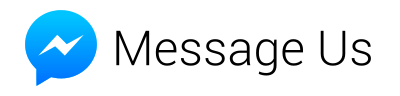
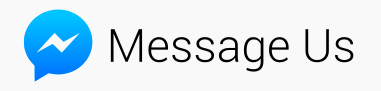
messenger btn color

diff --git a/src/templates/blog.js b/src/templates/blog.js
@@ -152,10 +152,15 @@ const Blog = (props) => {
                                 <span className="icon fa-clock-o"/> {props.data.markdownRemark.timeToRead}<i>-min read</i>
                             </p>          
                             <BlogHtml dangerouslySetInnerHTML={{ __html: props.data.markdownRemark.html}}></BlogHtml>
+                            <span>
                             <AStyled href="https://m.me/imgch/" target="_blank" rel="noopener noreferrer">
-                      <Styledimg src={fbmessenger} alt="message" /></AStyled>  
+                                <Styledimg src={fbmessenger} alt="message" /></AStyled>  
 
-                            <ContainerForm>
+                            </span>
+                            
+                            
+                            
+                            <ContainerForm>                            
                                 <h2>Subscribe to our newsletters</h2>
                                 <p>Receive new articles straight to your inbox.</p>
                                 <form name="blog-subscribe" method="post" data-netlify="true" data-netlify-honeypot="bot-field" action="/subscribed"> 
@@ -176,7 +181,7 @@ const Blog = (props) => {
                                         <label htmlFor="amember">already an IMG member</label>
                                     </div>                          
                                     <ul className="actions">                                            
-                                        <input type="submit" value="Subscribe" className="button" />                                                                      
+                                        <input type="submit" value="Subscribe" className="button" />                                                                     
                                     </ul>
                                 </form>   
                             </ContainerForm>   

diff --git a/src/pages/freebook.js b/src/pages/freebook.js
@@ -60,7 +60,7 @@ const AStyled = styled.a`
 `
 
 const Styledimg = styled.img`
-margin: 1.6em 0 0 0;
+margin: 1.7em 0 0 0;
 padding: 1px;
 border: none;
 border-radius: 5px;
